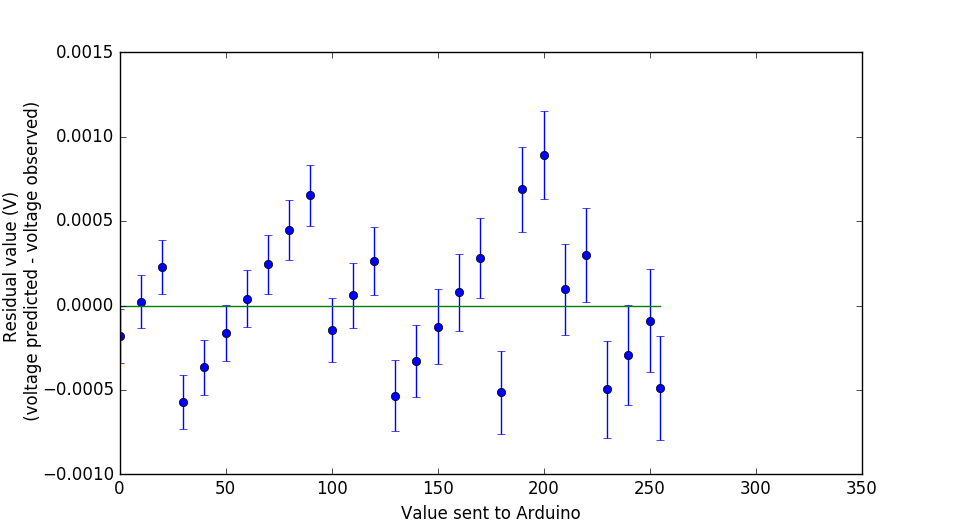
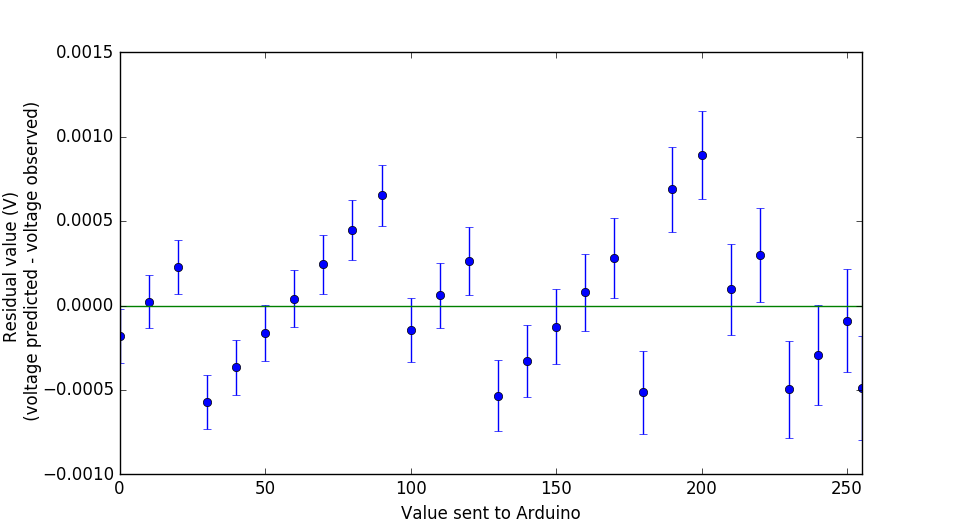
Add residual plot for ADC (analog pin A0)

diff --git a/uControllerCalibration/ADC/plotADC.py b/uControllerCalibration/ADC/plotADC.py
@@ -80,11 +80,27 @@ for i in range(6):
     
 tableCode = open("ADCdata.txt","w+")
 
+"""
 for i in range(6): 
     exec("toWrite =('ADC%d & ' +str(m%d)+' & '+str(mErr%d)+' & '+str(b%d)+' & '+str(bErr%d)+' \\\ \hline ')"%(i,i,i,i,i))
-    toWrite+='\n'
+    tableCode= tableCode+'\n'
     tableCode.write(toWrite)
-    
+"""    
 tableCode.close()
+
+
+predValuesA0 = [numpy.sum(numpy.multiply(m0,dataXvals[i]),b0) for i in range(len(dataXvals))]
+predValuesA0 = numpy.multiply(predValuesA0,1)
+residuals = numpy.subtract(predValuesA0,A0plot)
+plt.figure(figsize=(12,6), dpi=150)
+plt.xlabel("Value sent to Arduino",fontsize=12)
+plt.ylabel("Residual value (V) \n (value predicted - value observed)",fontsize=12)
+axes = plt.gca()
+axes.yaxis.labelpad = 0 
+axes.set_ylim([-10,10])
+axes.set_xlim([0,max(dataXvals)])
+plt.errorbar(dataXvals, residuals,yerr=yErr0,fmt='o')
+plt.plot([0,max(dataXvals)],[0,0])
+plt.savefig('A0res.png')
 
 

diff --git a/uControllerCalibration/linearFit.py b/uControllerCalibration/linearFit.py
@@ -52,9 +52,9 @@ plt.xlabel("Value sent to Arduino",fontsize=12)
 plt.ylabel("Residual value (V) \n (voltage predicted - voltage observed)",fontsize=12)
 axes = plt.gca()
 axes.yaxis.labelpad = 0 
-axes.set_xlim([0,350])
+axes.set_xlim([0,max(xvals)])
 plt.errorbar(xvals, residuals,yerr=yErr,fmt='o')
 plt.plot([0,max(xvals)],[0,0])
-plt.savefig('linFitRes')
+plt.savefig('linFitRes.png')
 
 numpy.savetxt('linFitData.txt',params)
